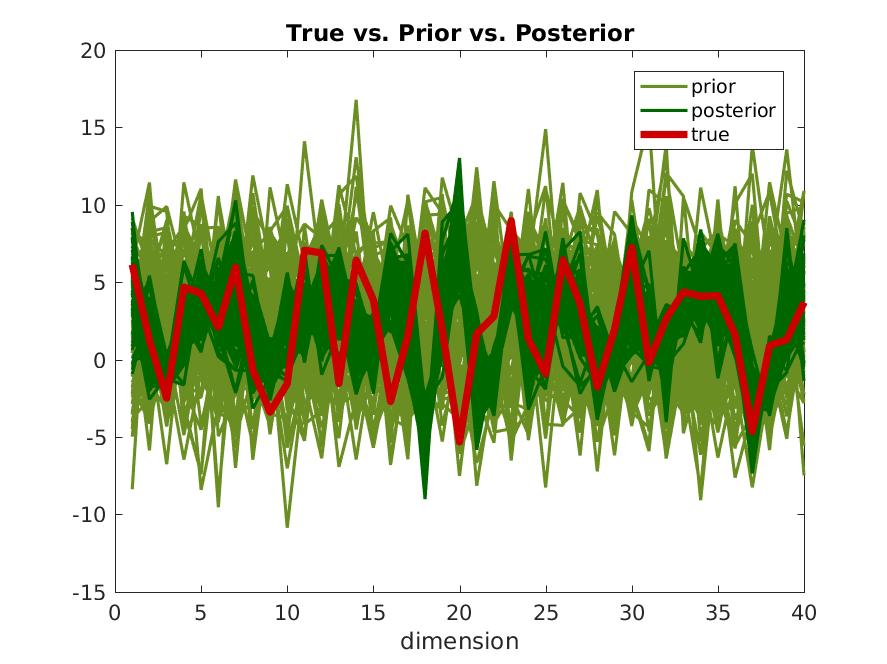
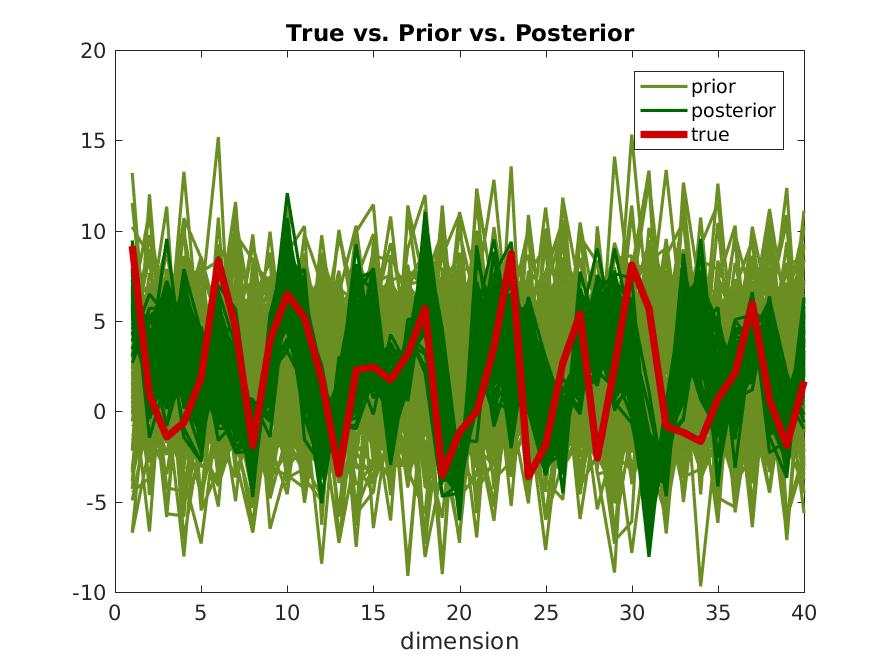
part 2 first attempt

diff --git a/enkfpo4.m b/enkfpo4.m
@@ -1,8 +1,9 @@
-function [ARMSE,aspread,J] = enkfpo3(dt,ensemble,M,N,H,t_final,R,Y,T,jump,r,alpha,spy)
-tic();
+function [ARMSE,aspread,X_a,mu_a,P_a] = enkfpo4(ensemble,Y,T,r,alpha,spy)
+global L1, global L2, global H, global R, global dt, global jump
+global n, global ne, 
 
-f = @(x)(M*x.*(N*x)+(8-x));
-[n,ne]=size(ensemble);
+colors
+f = @(x)(L1*x.*(L2*x)+(8-x));
 [m,q]=size(T);
 [m,a]=size(Y);
 X = ensemble;
@@ -11,15 +12,12 @@ spread = [];
 Rm = R*eye(m);
 time = [1:1:a-1];
 counter = 0;
-% spyvec = zeros(1,a-1);
-% indices = [];
+spyvec = zeros(1,a-1);
+indices = [];
 
 for i=1:(q-1)
-    k1=f(X);
-    k2=f(X+0.5*dt.*k1);
-    k3=f(X+0.5*dt.*k2);
-    k4=f(X+dt.*k3);
-    X = X + (1/6)*dt.*(k1+2.*k2+2.*k3+k4);              % forecast ensemble
+    k = f(X) + f(X+dt.*f(X)); 
+    X = X + 0.5*dt.*k;              % forecast ensemble
     
     if(mod(i,jump)==0)
         counter = counter + 1;
@@ -31,14 +29,15 @@ for i=1:(q-1)
         P_f = L.*P_f;                                       % localization
         K = P_f*(H')/(H*P_f*H' + Rm);                       % Kalman Gain
         Y_tilde = Y(:,counter+1)+normrnd(0,R,m,ne);         % analysis perturbations
-        X = X + K*(Y_tilde-H*X);                            % analysis ensemble
+        X_a = X + K*(Y_tilde-H*X);                          % analysis ensemble
         mu_a = mu_f + K*(Y(:,counter+1)-H*mu_f);            % analysis mean
         P_a = (eye(n)-K*H)*P_f;                             % analysis covariance
         error = mu_a-T(:,jump*counter+1);
         RMSE = [RMSE,sqrt((1/n).*transpose(error)*error)];
         spread = [spread,sqrt(trace(P_a)/n)];
-%         spyvec(counter) = mu_a(spy);
-%         indices = [indices,i];
+        spyvec(counter) = mu_a(spy);
+        indices = [indices,i];
+        X = X_a;
     end
 end
 
@@ -47,24 +46,25 @@ z = floor(q/2);
 ARMSE = (1/(q-1-z))*sum(transpose(RMSE(z:q-1)));
 aspread = (1/(q-1-z))*sum(transpose(spread(z:q-1)));
 
-% figure
-% plot(time,RMSE,'*','MarkerSize',5,'Color','red')
-% hold on
-% plot(time,spread,'o','MarkerSize',5,'Color','blue')
-% title('EnKF Perturbed Obs Errors')
-% xlabel('time')
-% legend('root mean square error','spread')
-% print(['ErrorsPO_r=',num2str(r),'_alpha=',num2str(alpha)],'-djpeg')
+figure
+h1=plot(time,RMSE,'*','MarkerSize',7,'Color',Color(:,9));
+hold on
+h2=plot(time,spread,'o','MarkerSize',7,'Color',Color(:,8));
+title('EnKF Perturbed Obs Errors')
+xlabel('time')
+legend([h1(1),h2(1)],'root mean square error','spread')
+print(['ErrorsPO_r=',num2str(r),'_alpha=',num2str(alpha)],'-djpeg')
+hold off
 
-% figure
-% plot(time,spyvec,'*','MarkerSize',5,'Color','red')
-% hold on
-% plot(time,T(spy,indices),'o','MarkerSize',5,'Color','blue')
-% title(['True Data vs. Kalman Estimate in coordinate ', num2str(spy)])
-% xlabel('time')
-% legend('Kalman','True')
-% print('KalmanvsTrue','-djpeg')
-% 
-% toc();
+figure
+h1=plot(time,spyvec,'*','MarkerSize',7,'Color',Color(:,7));
+hold on
+h2=plot(time,T(spy,indices),'o','MarkerSize',7,'Color',Color(:,14));
+title(['True Data vs. Kalman Estimate in coordinate ', num2str(spy)])
+xlabel('time')
+legend([h1(1),h2(1)],'Kalman','True')
+print('KalmanvsTrue','-djpeg')
+hold off
+
 end
 

diff --git a/HW4p2script.m b/HW4p2script.m
@@ -1,0 +1,95 @@
+global n, global dt, global obsdt, global ne, global jump, global R, global bg
+bg=3000;
+n=40;
+dt=0.01;
+obsdt=0.2;
+ne=20;
+jump = ceil(obsdt/dt);
+R=1;
+t_final=25;
+r=4;
+alpha=0.14;
+spy=17;
+spl=100;
+Rm = R*eye(20);
+
+global L1, global L2, global H, global F
+F = 8;
+[L1,L2,H] = prelim(n);
+
+[SynthDataTrue,SynthDataObs,X_start] = lorenz2(n,t_final);
+
+T = SynthDataTrue(:,1:spl*jump);
+Y = SynthDataObs(:,1:spl);
+
+T2 = SynthDataTrue(:,spl*jump+1:end);
+Y2 = SynthDataObs(:,spl+1:end);
+
+j1 = size(T2,2);
+j2 = size(Y2,2);
+RMSE = zeros(1,j2);
+spread = zeros(1,j2);
+
+ensemble = ensemble_init4(X_start);
+[ARMSE,aspread,X_a,mu_a,P_a] = enkfpo4(ensemble,Y,T,r,alpha,spy);
+
+ne=19;
+X_a=X_a(:,1:ne);
+
+global bcov, global bmean, global y_t
+bmean=mu_a;
+bcov=P_a;
+spyvec = zeros(1,j2);
+indices = [];
+
+for i=1:j2
+    y_t = Y2(:,i);
+    [new_mu,special_x,TimeSeries] = fdvar(bmean);
+    for l=1:ne
+        X_a(:,l)=fdvar(X_a(:,l));
+    end
+    Xtemp = [new_mu,X_a];
+    mu_f = (1/(ne+1)).*transpose(sum(transpose(Xtemp)));% forecast mean
+    X_f = (Xtemp - new_mu).*(1/sqrt(ne-1));             % forecast perturbations
+    P_f = X_f*transpose(X_f);                           % forecast covariance
+    L = localize2(P_f,r);                               % creating localization matrix L
+    P_f = (1+alpha).*L.*P_f;                            % localization
+    K = P_f*(H')/(H*P_f*H' + Rm);                       % Kalman Gain
+    Y_tilde = y_t+[zeros(20,1),normrnd(0,R,20,ne)];     % analysis perturbations
+    X_a = Xtemp + K*(Y_tilde-H*Xtemp);                  % analysis ensemble
+    X_a = X_a(:,1:ne);
+    bmean = (1/(ne+1)).*transpose(sum(transpose(X_a))); % analysis mean
+    bcov = (eye(n)-K*H)*P_f;                            % analysis covariance
+    gamma = new_mu-bmean;
+    X_a = X_a + gamma;
+    bmean = new_mu;
+    error = bmean-T2(jump*i+1);
+    RMSE(i) = sqrt((1/n).*transpose(error)*error);
+    spread(i) = sqrt(trace(bcov)/n);
+    spyvec(i) = bmean(spy);
+    indices = [indices,i*jump];
+end
+
+figure
+h1=plot(1:j2,RMSE,'*','MarkerSize',7,'Color',Color(:,9));
+hold on
+h2=plot(1:j2,spread,'o','MarkerSize',7,'Color',Color(:,8));
+title('EnKF Perturbed Obs Errors')
+xlabel('time')
+legend([h1(1),h2(1)],'root mean square error','spread')
+print(['ErrorsPO_r=',num2str(r),'_alpha=',num2str(alpha)],'-djpeg')
+hold off
+
+figure
+h1=plot(1:j2,spyvec,'*','MarkerSize',7,'Color',Color(:,7));
+hold on
+h2=plot(1:j2,T(spy,indices),'o','MarkerSize',7,'Color',Color(:,14));
+title(['True Data vs. Kalman Estimate in coordinate ', num2str(spy)])
+xlabel('time')
+legend([h1(1),h2(1)],'Kalman','True')
+print('KalmanvsTrue','-djpeg')
+hold off
+
+
+
+

diff --git a/HW4script.m b/HW4script.m
@@ -6,10 +6,10 @@ obsdt=0.2;
 ne=20;
 jump = ceil(obsdt/dt);
 R=1;
-t_final=10;
+t_final=25;
 SampleSize=100;
 
-colors
+run(colors)
 
 global L1, global L2, global H, global F
 F = 8;
@@ -73,8 +73,11 @@ h3=plot(1:40,SynthDataTrue(:,21),'Color',Color(:,9),'Linewidth',3.5);
 h4=plot(1:2:39,SynthDataObs(:,2),'*','MarkerSize',10,'Color','y');
 title('True vs. M(Prior) vs. M(Posterior) vs. Obs at time t')
 xlabel('dimension')
-legend([h1(1),h2(1),h3(1),h4(1)],'posterior','prior','true','obs')
+legend([h1(1),h2(1),h3(1),h4(1)],'prior','posterior','true','obs')
 print('prior_vs_posterior_vs_obs at time t','-djpeg')
 
 
-
+RMSE_Background0=sqrt(1/n*sum((SynthDataTrue(:,1)-bmean).^2))
+RMSE_x0=sqrt(1/n*sum((SynthDataTrue(:,1)-x_star).^2))
+RMSE_BackgroundT=sqrt(1/n*sum((SynthDataTrue(:,21)-MRK2(bmean)).^2))
+RMSE_xT=sqrt(1/n*sum((SynthDataTrue(:,21)-x_start).^2))

diff --git a/fdvar.m b/fdvar.m
@@ -3,8 +3,7 @@ global dt, global obsdt, global jump, global lb,global ub
 fun = @(x)argh(x);
 % options = optimoptions(@lsqnonlin,'Display','iter-detailed',...
 %     'SpecifyObjectiveGradient',true);
-options = optimoptions(@lsqnonlin,'Display','iter-detailed',...
-    'DerivativeCheck', 'on',...
+options = optimoptions(@lsqnonlin,...
     'SpecifyObjectiveGradient',true);
 [x_star,~,~,~,~,~,J] = lsqnonlin(fun,x_0,[],[],options);
 [x_start,TimeSeries] = MRK2(x_star);

diff --git a/ensemble_init4.m b/ensemble_init4.m
@@ -1,0 +1,20 @@
+function ensemble = ensemble_init4(X_start)
+global L1, global L2, global F, global dt, global ne, global n
+
+num_iter = 3000/dt;
+rando = randperm(num_iter,ne);
+X = X_start;
+f = @(x)(L1*x.*(L2*x)+(F-x));
+ensemble = zeros(n,ne);
+t=1;
+
+for i=1:num_iter
+   k = f(X) + f(X+dt.*f(X)); 
+   X = X + 0.5*dt.*k;
+   if(sum(i==rando)==1)
+       ensemble(:,t) = X;
+       t=t+1;
+   end
+end
+
+end

diff --git a/lorenz2.m b/lorenz2.m
@@ -3,7 +3,7 @@ global L1, global L2, global H, global F,
 global dt, global jump, global R
 
 X = normrnd(0,1,n,1);
-init_iter = ceil(100/dt);
+init_iter = ceil(1000/dt);
 numiter = ceil(t_final/dt);
 w = floor(numiter/jump);
 
